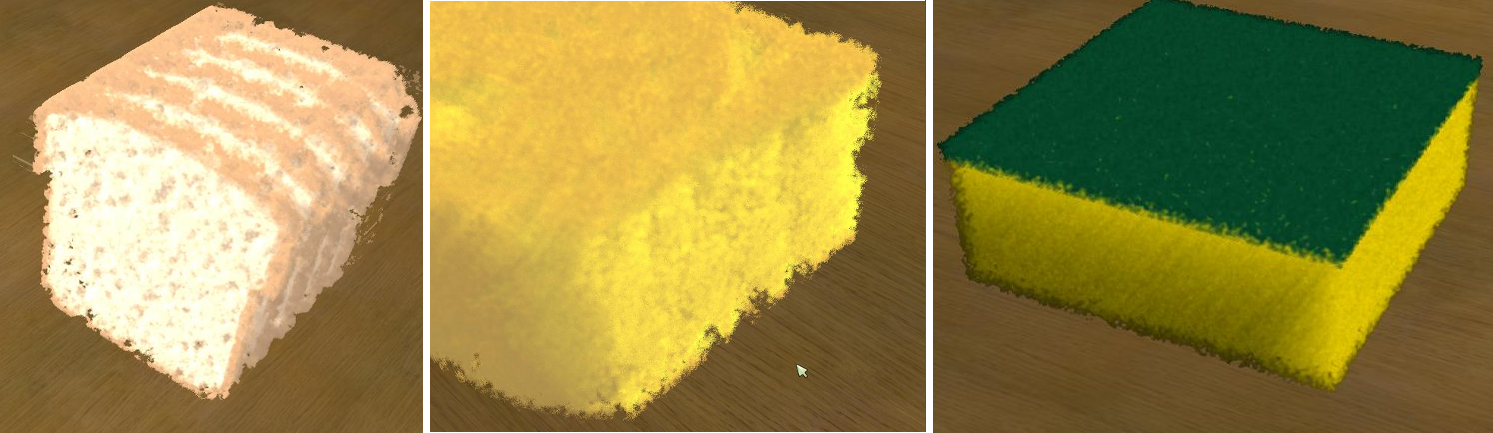
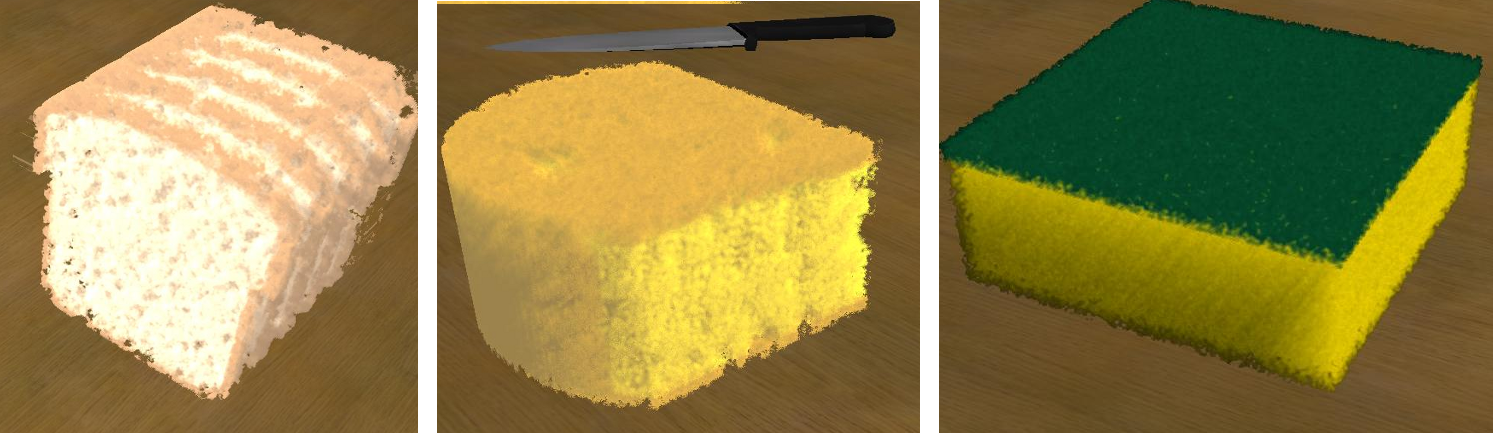
table

Changed region(s): [[0.2773, 0.0, 0.647, 1.0], [0.3389, 0.3303, 0.4005, 0.3603], [0.5238, 0.8406, 0.5546, 0.8707]]

diff --git a/enief.tex b/enief.tex
@@ -87,7 +87,7 @@ The appearance of bread crumbs and other baked materials, such as pizzas and coo
 
 As an additional challenge, the geometry of these materials are the result of complex mechanisms which involves physical deformations and chemical reactions. For instance, in bread making, two different processes are involved: proofing and baking. Proofing involves chemical reactions between the living yeast and the dough. The yeast produces $CO_{2}$ which in turn makes bubbles in dough \citep{Shah1998}. In the baking process \citep{Mondal2008}, temperature changes these shapes in several ways \citep{Scanlon2001}, giving bread its final internal structure. A few attempts to synthesise a model of this geometry have been made \citep{VanDyck2014,Cho2007}, but the structure obtained is the result of an artistic design, and, in the case of x-ray tomography, the variability of the structure is limited to the amount of captures made. In this work we propose to employ dynamical systems \citep{Strogatz2001} in order to evolve particle systems \citep{Reeves83} that we have previously designed \citep{Baravalle2011}, trying to mimic the bread making process (proofing and baking). Many complex processes as weather and fluids are governed by differential equations which describes their dynamics and appearance. This idea is employed in this paper for describing the bubble growth process in bread. This process outputs a structure which is perceived as if bubbles were growing in a fluid, similar to patterns found in bread crumbs. Other approaches computes each texel value using algebraic functions so they do not require to store a 3D texture in memory \citep{Perlin1989}, but in this case this method is not adequate since the bubble distribution is difficult to capture with a statistical approach.
 
-The mechanism for rendering these internal structures depends largely on the data structure chosen for its representation. If a mesh of triangles is used, it should be computed from initial data, using techniques such as marching cubes \citep{Lorensen1987}. Nevertheless such process could be a non-trivial task due to the porous structure of bread, and is potentially high memory demanding. Trying to represent the material as a surface is not adequate since it presents visible structures on it. Bread is classified as a quasi homogeneous material \citep{Tong2005}, due to the presence of mesostructures (bubbles) on it. In other words, typical solutions as Bidirectional Reflectance Distribution Functions (BRDF) \citep{Kurt2009} and Bidirectional Surface Scattering Reflectance Distribution Functions (BSSRDF) \citep{Donner2009} are not completely adequate since mesostructures cannot be addressed with these methods. A material model is defined \citep{Tong2005} which solves these limitations. It is true that this method shows good results, but the main drawbacks of this approach (complex capture procedure involved, computational costs, poor image and structure variability), made it difficult for a wider application.
+The mechanism for rendering these internal structures depends largely on the data structure chosen for its representation. If a mesh of triangles is used, it should be computed from initial data, using techniques such as marching cubes \citep{Lorensen1987}. Nevertheless such process could be a non-trivial task due to the porous structure of bread, and is potentially high memory demanding. Trying to represent the material as a surface is not adequate since it presents visible structures on it. Bread is classified as a quasi homogeneous material \citep{Tong2005}, due to the presence of mesostructures (bubbles) on it. In other words, typical solutions as Bidirectional Reflectance Distribution Functions (BRDF) \citep{Kurt2009} and Bidirectional Surface Scattering Reflectance Distribution Functions (BSSRDF) \citep{Donner2009} are not completely adequate since mesostructures cannot be addressed with these methods. A material model is defined \citep{Tong2005} which solves these limitations. It is true that this method shows good results, but the main drawbacks of this approach (complex capture procedure involved, computational costs, poor image and structure variability), made it difficult for a widespread application.
 
 In this paper we propose to apply Direct Volume Rendering (DVR) \citep{Levoy1988,Kruger2003, Kratz2006} on a scalar field to render the bread crumb structure. DVR applies ray marching through the volume accumulating different properties for each pixel. The method does not use intermediate structures, simplifying the modelling process. In addition, the shape of the bread crumb can be defined in real time on the GPU, making it possible to perform arbitrary cuts, slices and deformations of the 3D structure in real time. Also, the bread crust can be easily defined along with its own properties like colour and translucency using transfer functions. Promising results are obtained at real time rates. 
 
@@ -95,15 +95,15 @@ This paper is organised as follows. In section 2 the theory of particle systems,
 
 \section{MATERIALS AND METHODS}
 
-\subsection{Particle Systems}
+\subsection{Particle systems}
 
-Early approaches in computer graphics tried to represent nature employing euclidean geometry, in other words, combining points, lines, surfaces, spheres, cylinders, cubes, etc. Nevertheless, it is difficult to capture details of natural structures with this approach. The shape observed in mountains, coastlines,  and almost every natural object presents irregularities which are difficult or impossible to represent using this approach. Other geometries such as fractal geometry \citep{Mandelbrot83} emerged and claimed to describe natural phenomena more adequately. With this new perspective, previous phenomena could be better modelled and rendered. 
+Early approaches in computer graphics tried to represent nature employing euclidean geometry, in other words, combining points, lines, surfaces, spheres, cylinders, cubes, etc. Nevertheless, it is difficult to capture details of natural structures with this approach. The shape observed in mountains, coastlines,  and almost every natural object presents irregularities which are difficult or impossible to represent using these primitives. Other geometries such as fractal geometry \citep{Mandelbrot83} emerged and claimed to describe natural phenomena more adequately. With this new perspective, previous phenomena could be better modelled and rendered. 
 
-At the same time, several techniques for representing non euclidean objects emerged. Particle Systems \citep{Reeves83} were designed for representing phenomena which have no well defined surface, like water, smoke and fire. Particle systems are composed of entities called {\em particles} which evolve its properties in time. As an example, for rendering fireworks, a particle system is defined in which each particle begins its trajectory in a common space position, and each time step its position changes following a parabola. Different particles follow different parabolas. An image is obtained at each step and an animation can be seen. For obtaining other effects such as fire, properties as colour, size and direction can be modified depending on time. Particles can also affect each other.
+At the same time, several techniques for representing non euclidean objects appeared. Particle systems \citep{Reeves83} were designed for dealing with phenomena which have no well defined surface, like water, smoke and fire. Particle systems are composed of entities called {\em particles} which evolve its properties in time. As an example, for rendering fireworks, a particle system is defined in which each particle begins its trajectory in a common space position, and each time step its position changes following a parabola. Different particles follow different parabolas. An image is obtained at each step and an animation can be seen. For obtaining other effects such as fire, properties as colour, size and direction can be modified depending on time. Particles can also affect each other.
 
 In a previous work \citep{Baravalle2011}, we employed particle systems for texture synthesis. Each particle had an initial random position in the image, and evolves trying to avoid other particles, similar to the concept of cellular automata on a plane. Promising results were obtained for wood and painting textures. The growth functions used were mainly random, vertical, horizontal and diagonal. In this work, we propose to extend it to space, and use a system of differential equations to control the growth of the self-avoiding particles for mimicking the bread making process, obtaining a 3D texture for representing this material. 
 
-\subsubsection{Algorithm for Particle Systems}
+\subsubsection{Algorithm for particle systems}
 The purpose of this algorithm is to produce a geometry which will be rendered on a second step. So instead of outputting the colour of a particular position in space, it will output a scalar field composed of $0$s and $1$s ($0$ if the position contains air, $1$ if the position contains mass). This representation is adequate for DVR. 
 
 The system consists of a set of particles $P$, 
@@ -143,7 +143,7 @@ Varying the size of the contour produces different structures (see Fig.~\ref{fg:
 
 The $L$ lattice is the output of the algorithm, and it represents the structure which will be rendered in the next step of the process. Next section establishes the system employed to evolve the particles in time.
 
-\subsection{Dynamical Systems}
+\subsection{Dynamical systems}
 
 The subject known as Dynamics deals with {\em change} \citep{Strogatz2001}. Dynamics began in previous centuries with Isaac Newton's studies. Among his contributions, Differential Equations can be found. These equations manage the difficulty (or impossibility) of finding analytical equations for these dynamical processes. After a model describing the problem is defined, the differential equations obtained are simulated and approximate solutions are derived for each step of the simulation. Dynamical systems are concerned about processes that evolve in time, as economics, heat transfer, and fluids. With the development of computers in the last century, the field has been able to obtain insight in areas which were impossible before, since the calculations were too difficult to be performed by humans, for instance, Fractals \citep{Mandelbrot83} and Chaos.
 
@@ -162,7 +162,7 @@ where $\dot{x_{i}}$ represents the derivative of $x_{i}$ with respect to the var
 
 \subsection{Evolution of particle systems using dynamical systems trajectories}
 
-Human perception can detect patterns in bread crumb structure. Key observations can be made in real images of bread crumbs (see Fig.~\ref{fg:fig2}). First, if close to the crust, bubble shape tend to follow the crust shape. This is not casual, since temperature in baking affects the shape of bubbles \citep{Scanlon2001}, and elongates them following its walls. Another observation is that the entire structure appears as if it were a fluid. It is indeed the case in early stages of the making process. At some point of it, the viscosity of the dough decreased so that the bubbles were not allowed to continue growing and coalescing.
+Human perception can detect patterns in bread crumb structure. Key observations can be made in real images of bread crumbs (see Fig.~\ref{fg:fig2}). First, if close to the crust, bubble shape tends to follow the crust shape. This is not casual, since temperature in baking affects the shape of bubbles \citep{Scanlon2001}, and elongates them following its walls. Another observation is that the entire structure appears as if it were a fluid. It is indeed the case in early stages of the making process. At some point of it, the viscosity of the dough decreased so that the bubbles were not allowed to continue growing and coalescing.
 
 \begin{figure*}[htb!]
   \centerline{\includegraphics[scale=0.45]{fig2}}
@@ -189,9 +189,9 @@ Dynamical systems produce natural shapes (see Fig.~\ref{fg:fig3}). Circles and s
 
 Random positions are chosen in the examples, and then the system is solved at each time step using a fourth order runge-kutta solver to determine the new position of the trajectory. In the left image, the trajectories are {\em attracted} by a position which lies in the left-upper quadrant. Trajectories could also be attracted to a set of points instead to a particular one. In the right image, trajectories follow circles and other shapes without having a point attractor (the entire shape is an attractor).
 
-Patterns can be produced by particles following trajectories in the plane or space. In order for a particle to follow a trajectory, the dynamical system is solved at the current position of the particle, and the contour position which approximates best that solution is chosen. In other words, the dynamical system defines a vector field that could be used by the particles.
+Patterns can be produced by particles following trajectories in the plane or space. In order for a particle to follow a trajectory, the dynamical system is solved at the current position of the particle, and the contour position which best approximates that solution is chosen for growing. In other words, the dynamical system defines a vector field that could be used by the particles.
 
-When the growth direction of the particles is set to follow dynamical systems, bubbles are able to deform globally in a similar shape (see Fig.~\ref{fg:fig4}). In the images, from left to right, the {\em randomness} of the trajectories are decremented. The right image has a randomness of $0.1$, meaning that the bubbles are forced to follow the dynamical system trajectories with a probability of 0.9. This probability is defined as $1-randomness$. with $0 \leq randomness \leq 1$. The dynamical system used is the same as the right one previously shown (see Fig.~\ref{fg:fig3}).
+When the growth direction of the particles is set to follow dynamical systems, bubbles are able to deform globally in a similar shape as the trajectories of the dynamical system (see Fig.~\ref{fg:fig4}). In the images, from left to right, the {\em randomness} of the trajectories are decremented. The right image has a randomness of $0.1$, meaning that the bubbles are forced to follow the dynamical system trajectories with a probability of 0.9. This probability is defined as $1-randomness$. with $0 \leq randomness \leq 1$. The dynamical system used is the same as the right one previously shown (see Fig.~\ref{fg:fig3}).
 The patterns are adequate for use not only in bread images, but also cakes, and other baked foods, varying the randomness parameter. Different set of equations and different parameters for the particle systems (lifetime of particles, randomness) could be used to define different useful structures.
 
 
@@ -209,7 +209,7 @@ Next section shows how these evolved particles can be rendered.
 
 In this section, the theory and implementation of the DVR algorithm used in this work is exposed.
 
-\subsubsection{Direct Volume Rendering (DVR)}
+\subsubsection{Direct volume rendering}
 
 The technique of direct volume rendering attempts to provide a
 2-dimensional representation of a volume defined by a discreet
@@ -276,7 +276,7 @@ If light emission is assumed to be a constant term ($\rho$) for
 every point in the volume, our initial radiance estimate becomes:
 
 \begin{equation} \label{eq:ray_radiance}  
-  L(p_n) = L_b \ e^{-\tau(p_0, p_n)} + \int_{p_0}^{p_n} \rho \ e^{-\tau(t,s_n)} \, dt.
+  L(p_n) = L_b \ e^{-\tau(p_0, p_n)} + \int_{p_0}^{p_n} \rho \ e^{-\tau(t,p_n)} \, dt.
 \end{equation}
 
 What this equation means is that the radiance along points $p_0$ and
@@ -348,25 +348,25 @@ transmittance coefficient of the bread, the transmittance
 threshold, the colour assigned to the crumb and the addition of a
 specular highlight, among others. This has the additional consequence
 of being able to produce images that resemble other porous materials,
-such as sponges. In the next section, the results of this processes are shown and discussed.
+such as sponges. In the next section, the results of these processes are shown and discussed.
 
 
 \section{RESULTS AND DISCUSSION}
 
 In this section, different rendering results and computing times are shown. A brief discussion is also outlined.
 
-\subsection{Rendering Results}
+\subsection{Rendering results}
 
-This section shows different images obtained with the proposed method. The hardware employed is a nVidia GTX 480 ($480$ cores), which is a typical configuration for home computers. The CPU is an Intel(R) Core(TM) i5-2300 CPU (quad core). Different images of high bread resemblance can be obtained. Different bread types can be rendered varying colours and transmittance parameters (see Fig.~\ref{fg:fig5}). Also, the crust shape can be defined as explained in next section.
+This section shows different images obtained with the proposed method. The hardware employed is a nVidia GTX 480 ($480$ cores), which is a typical configuration for home computers. The CPU is an Intel(R) Core(TM) i5-2300 CPU (quad core). The screen resolution is $1440\times990$ pixels. Different images with high bread resemblance are obtained. Different bread types can be rendered varying colours and transmittance parameters (see Fig.~\ref{fg:fig5}). In the middle image, patterns produced by the particle system described in previous sections can be clearly observed. In that case, the lifetime of the particles is different from each other, in order to have big and small bubbles at the same time. The crust shape can be defined as explained in next section.
 
-\subsection{Crust, Slices and Cuts}
+\subsection{Crust, slices and cuts}
 The shader functions isCrust and isOutsideVolume take a position in the volume and return a boolean which is employed to identify crust/crumb regions and to make slices in the volume. For instance, a cylindrical bread could define a position as crust if the point has certain distance to the centre of the volume (in $X,Y$ coordinates, for all $Z$) , and crumb when its distance is lower. Slices could be defined in isOutsideVolume returning true if the modulus of the z coordinate division in the position vector with certain number is $0$ (the width of the slice), this produces prisms of air in the volume which defines slices as can be seen in the images (see Fig.~\ref{fg:fig5}, \ref{fg:fig6}).
 
 Since mathematical inequations based on positions should be written, this process should be extended to be ready to use by artists.
 
 \begin{figure*}[htb!]
   \centerline{\includegraphics[scale=0.3]{fig5}}
-  \caption{Breads rendered in real time with the method described in this paper. The right image shows a bread which has no crust. }
+  \caption{Different breads rendered in real time with the method described in this paper. The right image shows a bread which has no crust. }
   \label{fg:fig5}
 \end{figure*}
 
@@ -374,7 +374,7 @@ Other materials could also be synthesised (see Fig.~\ref{fg:fig6}). They are the
 
 \begin{figure*}[htb!]
   \centerline{\includegraphics[scale=0.3]{fig6}}
-  \caption{Other materials rendered in real time changing parameters in the model. }
+  \caption{Other materials rendered in real time changing parameters in the model. Left: sliced pudding, middle: slice of cake, right: sponge. }
   \label{fg:fig6}
 \end{figure*}
 
@@ -382,13 +382,30 @@ Other materials could also be synthesised (see Fig.~\ref{fg:fig6}). They are the
 
 \begin{figure*}[htb!]
   \centerline{\includegraphics[scale=0.25]{fig7}}
-  \caption{Back illumination in the model. }
+  \caption{Sponge showing back illumination in the model. }
   \label{fg:fig7}
 \end{figure*}
 
 
 \subsection{Computing times}
-Most images show real time results (FPS over 30). The performance is affected mostly when the transmittance is low ({\em i.e.}, when the material becomes more transparent), since the ray accumulates more information (and the computation ends later). Another key parameter are the steps that a ray traverses. We experimentally found that values above $100$ steps gives reasonably images in all cases. The process automatically scales with the number of GPU processors, so the fps count will increment in the GPUs of the next years.
+Most images show real time results (FPS over 30), see Table~\ref{tab:n1} . The performance is affected mostly when the transmittance is low ({\em i.e.}, when the material becomes more transparent), since the ray accumulates more information (and the computation ends later). Another key parameter are the steps that a ray traverses. We experimentally found that values above $100$ steps gives reasonably images in all cases. The process automatically scales with the number of GPU processors, so the fps count will increment in the GPUs of the next years.
+
+\begin{table}[htb]
+\centering
+\begin{tabular}{|c|c|c|c|c|c|c|}
+\hline &  Bread 1 & Bread 2 & Bread 3 & Pudding & Cake & Sponge \\
+\hline
+\hline
+ mean FPS  & 32.2 &  75.5 &  45.2 & 28.5 &  54.2 & 29.7\\
+\hline
+ Steps &  140 &  140 &  140 & 256 &  140 & 256 \\
+\hline
+ Transmittance &  15 &  15 &  15 & 15 &  15 & 2.25 \\
+\hline
+\end{tabular}
+\caption{mean FPS for the images obtained. }
+\label{tab:n1}
+\end{table}
 
 \subsection{Discussion}
 To the best of the authors knowledge, this is the first attempt to convincingly render bread crumb in real time without introducing complex intermediate processes (capture, mesh generation, precomputation, post-process). It is true that a previous approach \citep{Cho2007} has been used for bread rendering, but since no details are explained (computing times, render method) comparisons with this technique could not be established.
